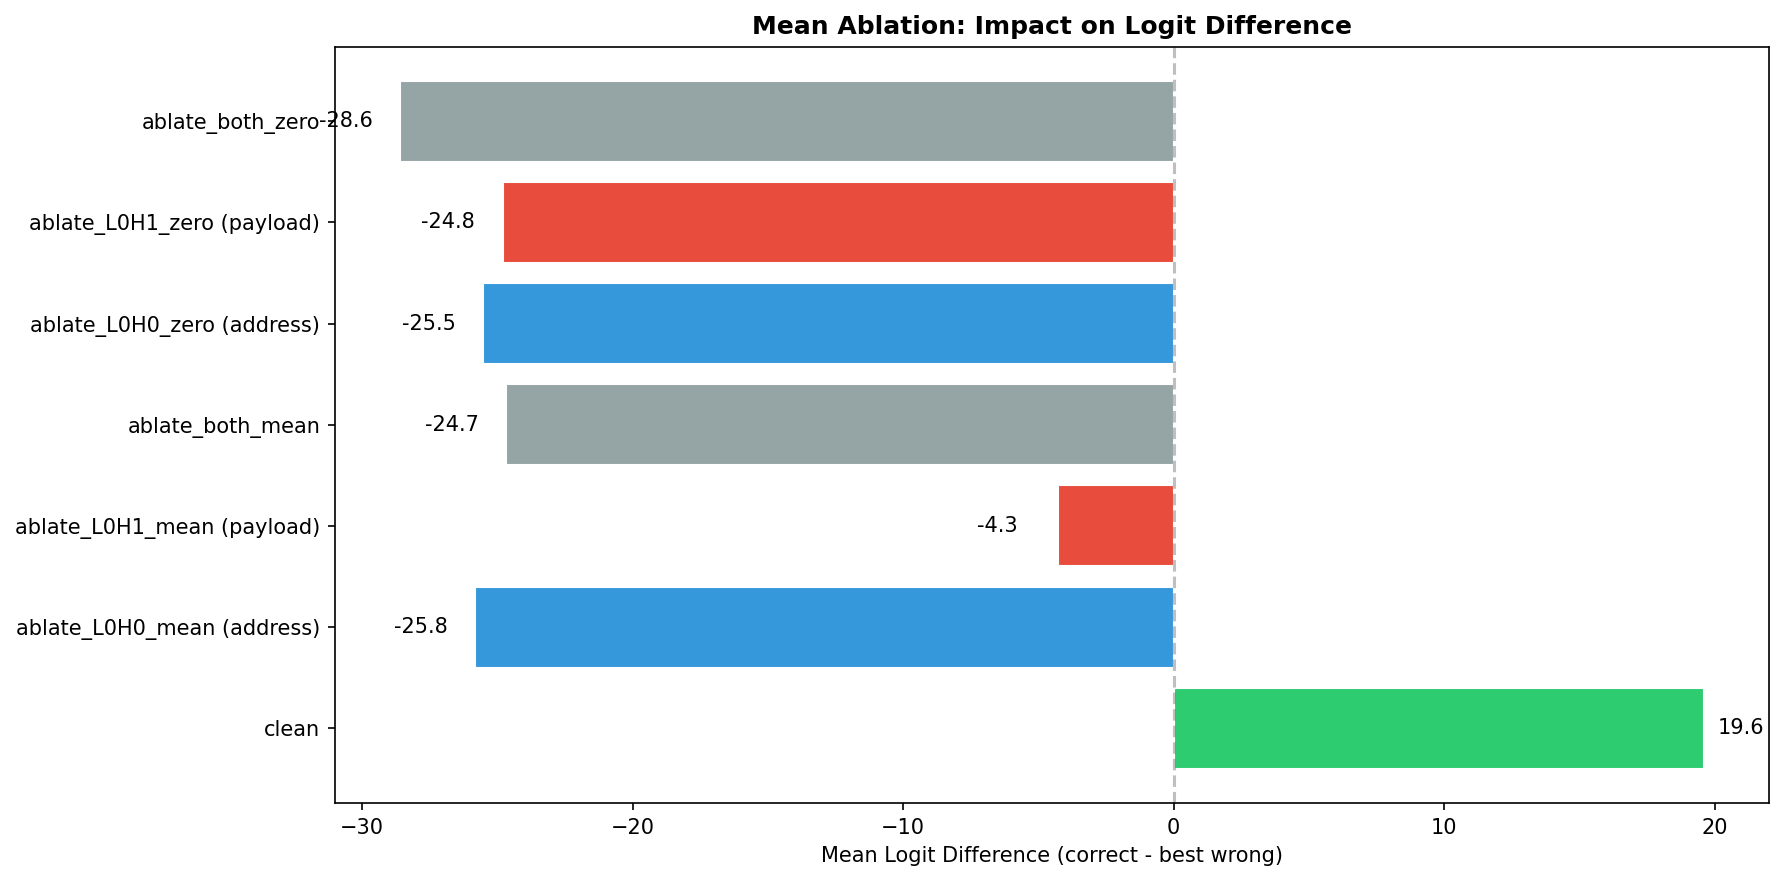
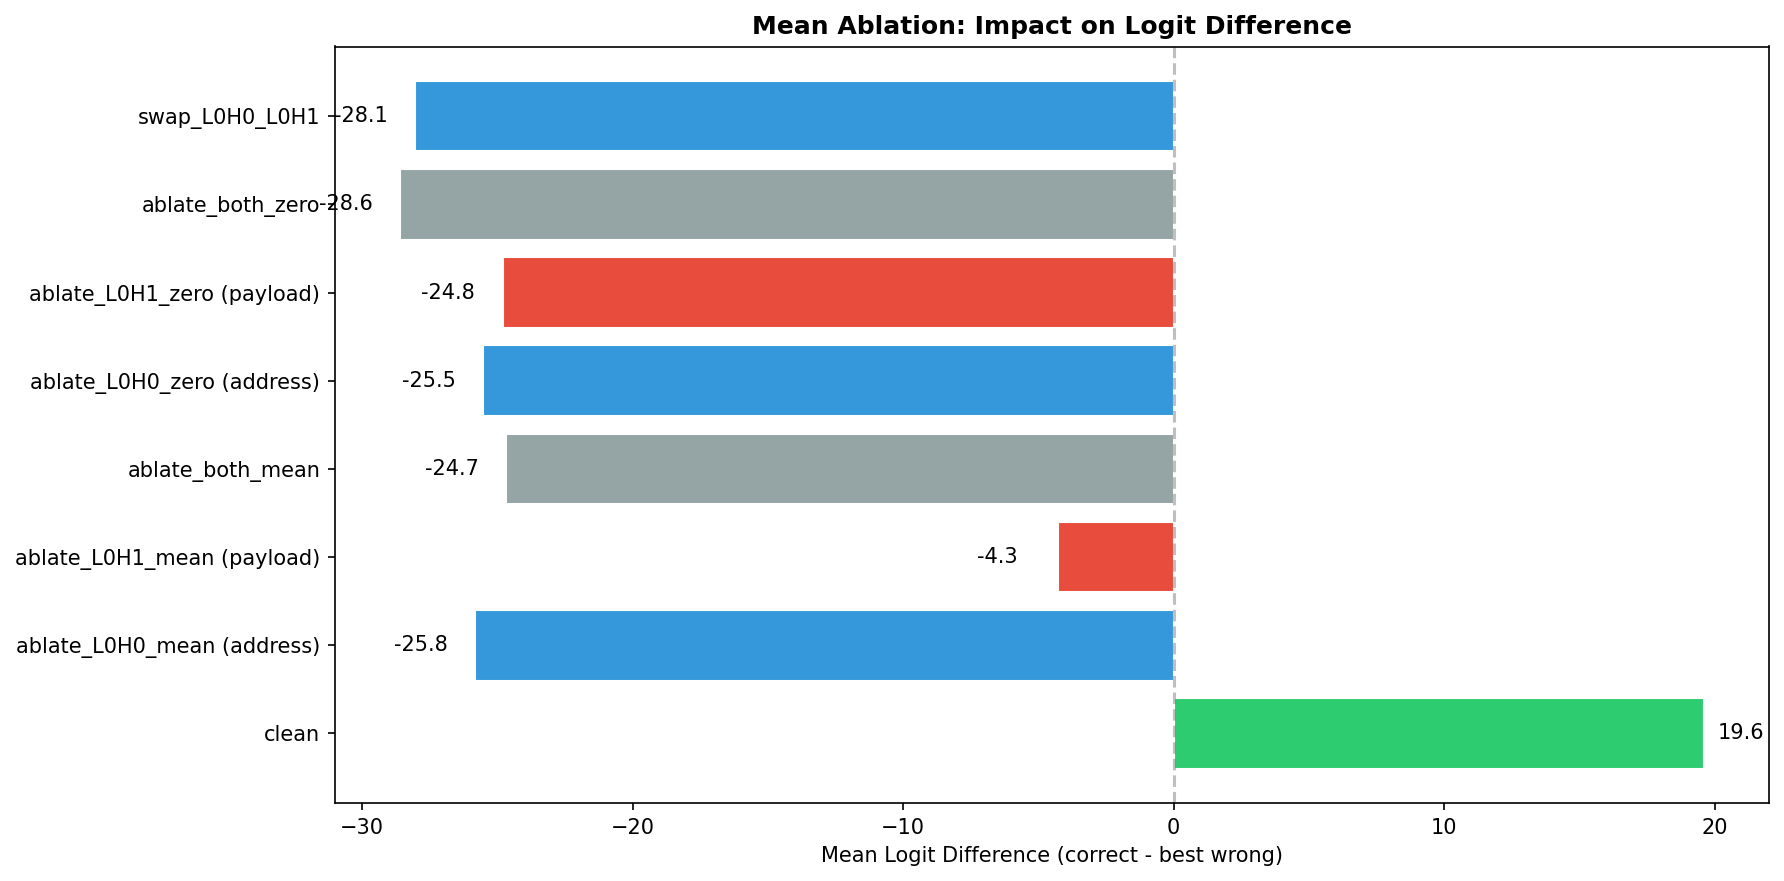
new exp results

diff --git a/EXPERIMENTS_README.md b/EXPERIMENTS_README.md
@@ -190,10 +190,10 @@ Checkboxes represent the state **before** re-running with the hardened scripts. 
 
 ### Toy (fast — minutes on CPU/MPS)
 
-- [ ] **exp1** — re-run to get bootstrap CIs on geometry claims
-- [ ] **exp1b** — new file, must run; proves SAE failure empirically on toy
-- [ ] **exp2** — re-run to get permutation-null comparison
-- [ ] **exp3** — re-run to get confusion-matrix breakdown + head-swap result
+- [x] **exp1** — re-run to get bootstrap CIs on geometry claims
+- [x] **exp1b** — new file, must run; proves SAE failure empirically on toy
+- [x] **exp2** — re-run to get permutation-null comparison
+- [x] **exp3** — re-run to get confusion-matrix breakdown + head-swap result
 
 ### Gemma (slow — GPU recommended)
 
